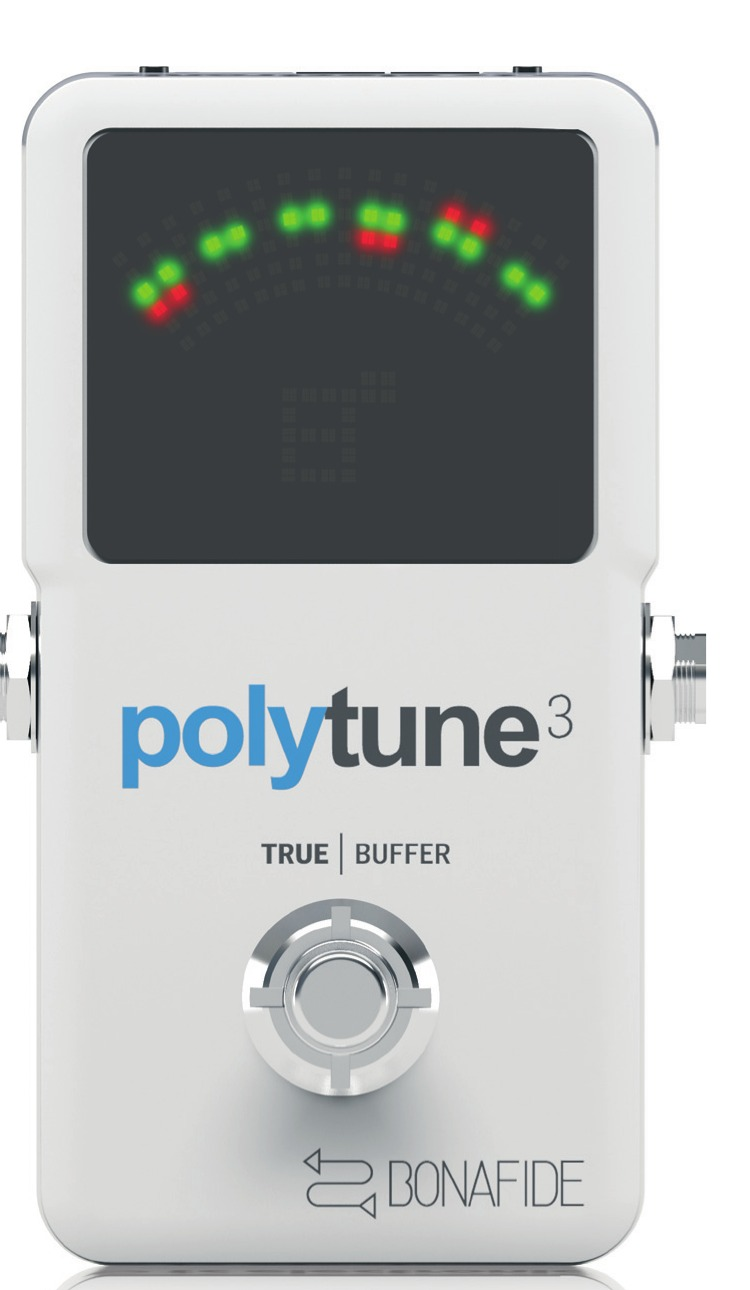
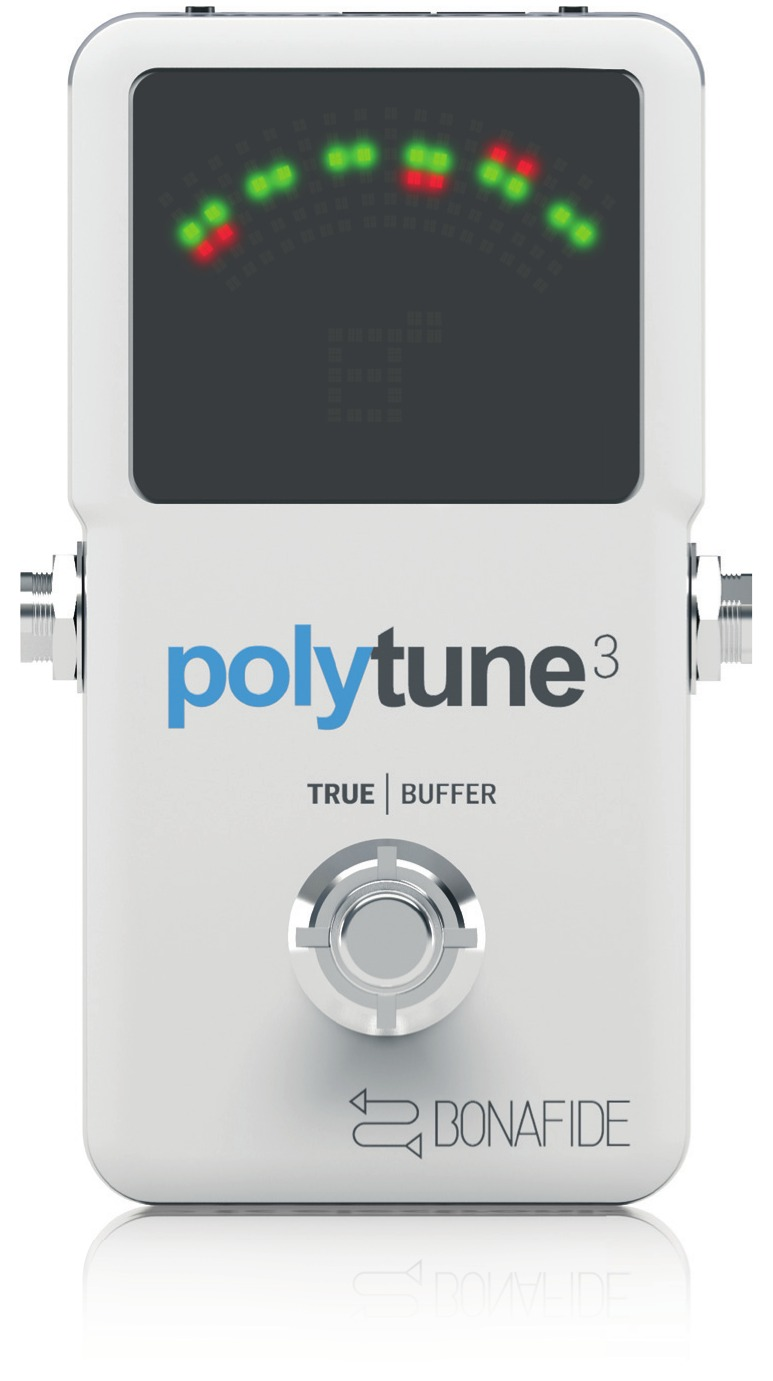
Fix cropped Polytune 3 figures and column-span layout breaks
header.jpg and tc-electronic-logo.png were cropped too tight and cut
off the pedal's side jacks and the wordmark's swirl. .figure and
.table-scroll used column-span: all, which forced the two-column
layout to balance before the break — stranding empty space in the
shorter column and stretching single-column content full width.

diff --git a/tc-electronic-polytune-3/style.css b/tc-electronic-polytune-3/style.css
@@ -192,11 +192,11 @@ section + section {
 }
 
 .figure {
-  column-span: all;
   margin-bottom: 1.5em;
+  break-inside: avoid;
 }
 .figure img {
-  max-width: 32em;
+  max-width: 100%;
   display: block;
   margin: 0 auto 0.5em;
 }
@@ -237,8 +237,8 @@ section + section {
 }
 .table-scroll {
   overflow-x: auto;
-  column-span: all;
   margin-bottom: 1em;
+  break-inside: avoid;
 }
 
 /* --- Callout box (FCC) --- */
